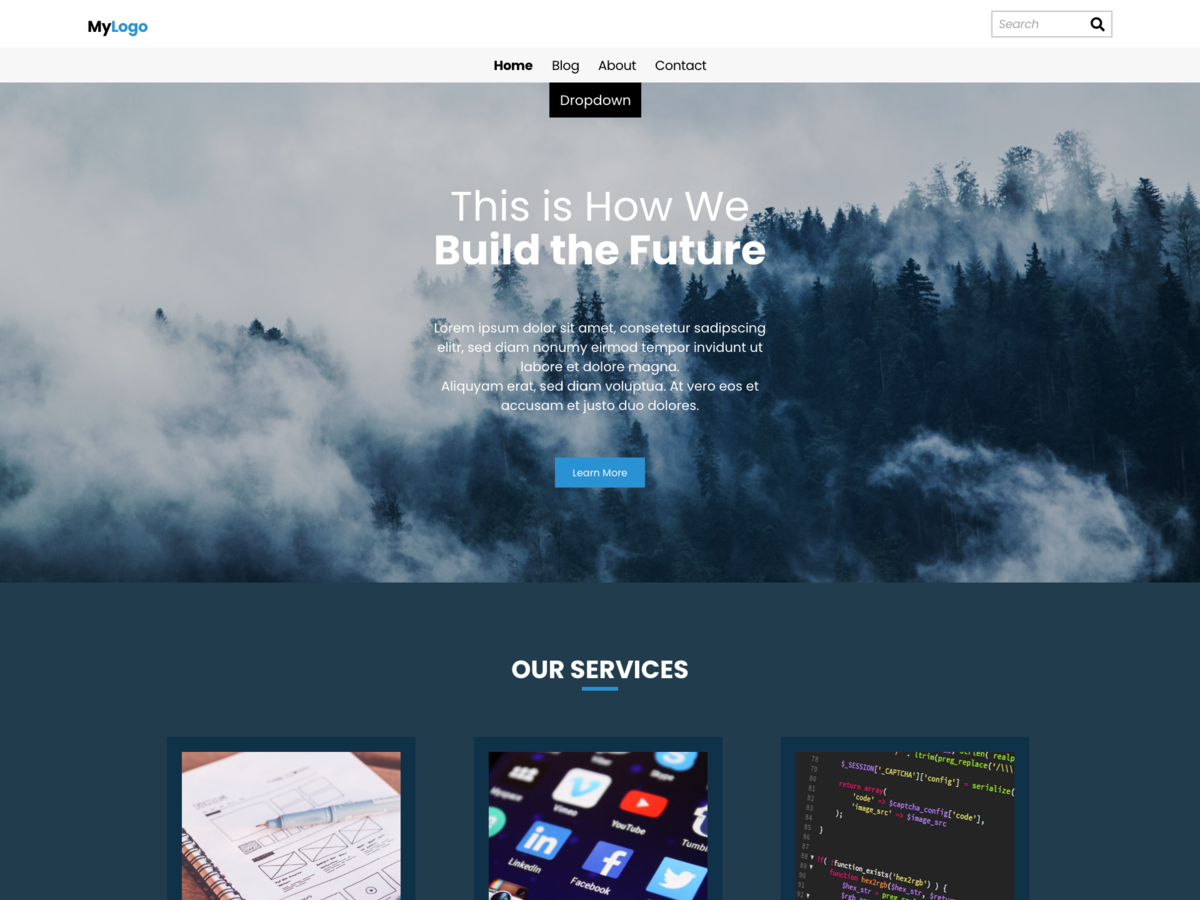
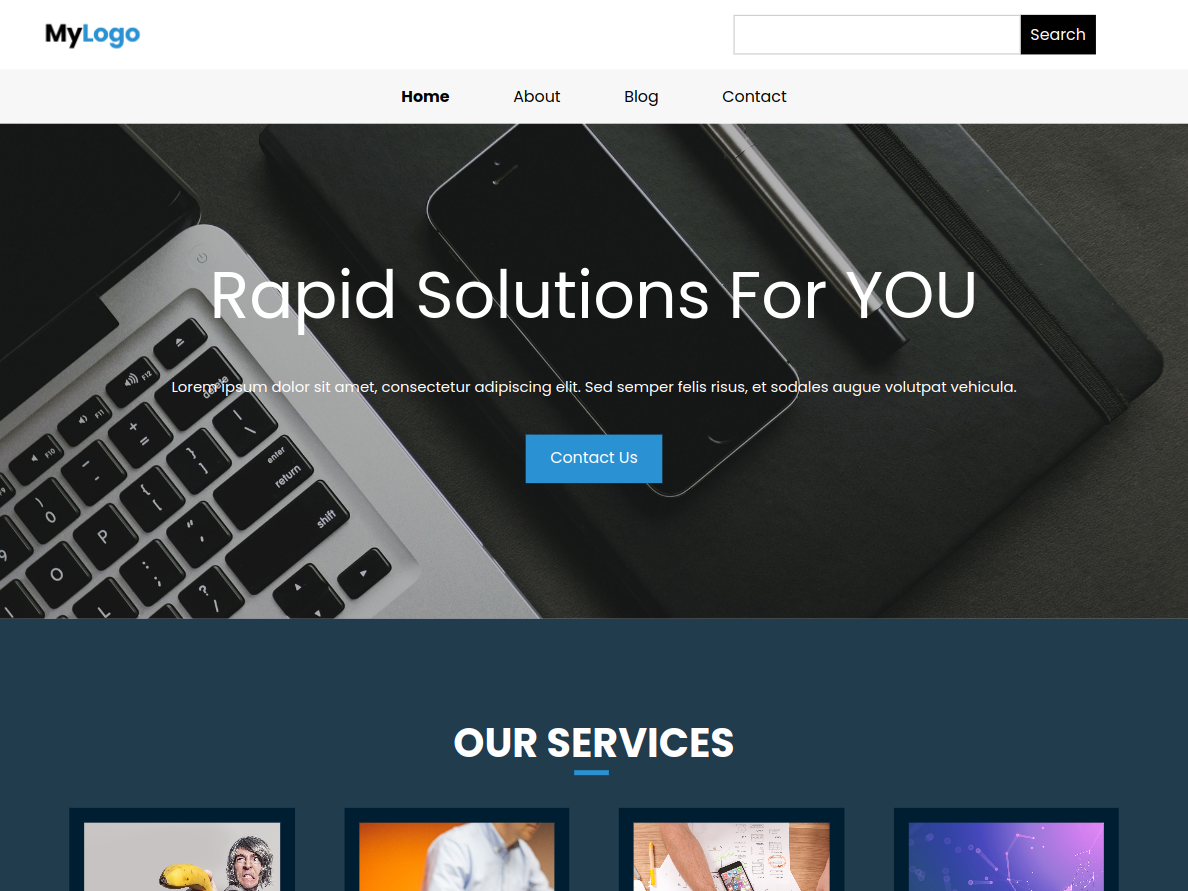
feat hero/footer customizer

diff --git a/inc/customizer.php b/inc/customizer.php
@@ -1,0 +1,166 @@
+<?php 
+
+function wpdevs_customizer( $wp_customize ){
+    $wp_customize->add_section(
+        'sec_copyright',
+        [
+            'title' => 'Copywrite Settings',
+            'description' => 'Copywrite Settings'
+        ]
+    );
+
+        $wp_customize->add_setting(
+            'set_copyright',
+            [
+                'type' => 'theme_mod',
+                'default' => 'Cool copyright footer text',
+                'sanitize_callback' => 'sanitize_text_field'
+            ]
+        );
+
+        $wp_customize->add_control(
+            'set_copyright',
+            [
+                'label' => 'Copyright information',
+                'description' => 'Please, type your copyright here',
+                'section' => 'sec_copyright',
+                'type' => 'text'
+            ]
+        );
+    
+    // Hero section
+
+    $wp_customize->add_section(
+        'sec_hero',
+        [
+            'title' => 'Hero Section',
+        ]
+    );
+        
+        // Hero title customizations
+
+        $wp_customize->add_setting(
+            'set_hero_title',
+            [
+                'type' => 'theme_mod',
+                'default' => 'Please add a title',
+                'sanitize_callback' => 'sanitize_text_field'
+            ]
+        );
+
+        $wp_customize->add_control(
+            'set_hero_title',
+            [
+                'label' => 'Hero title',
+                'description' => 'Type your title here',
+                'section' => 'sec_hero',
+                'type' => 'text'
+            ]
+        );
+
+        // Hero subtitle customizations
+
+        $wp_customize->add_setting(
+            'set_hero_subtitle',
+            [
+                'type' => 'theme_mod',
+                'default' => 'Add your custom subtitle',
+                'sanitize_callback' => 'sanitize_textarea_field'
+            ]
+        );
+
+        $wp_customize->add_control(
+            'set_hero_subtitle',
+            [
+                'label' => 'Hero subtitle',
+                'description' => 'Type your subtitle here',
+                'section' => 'sec_hero',
+                'type' => 'textarea'
+            ]
+        );
+
+        // Hero button text customizations
+
+        $wp_customize->add_setting(
+            'set_hero_button_text',
+            [
+                'type' => 'theme_mod',
+                'default' => 'Button text',
+                'sanitize_callback' => 'sanitize_text_field'
+            ]
+        );
+
+        $wp_customize->add_control(
+            'set_hero_button_text',
+            [
+                'label' => 'Hero button text',
+                'description' => 'Type your subtitle here',
+                'section' => 'sec_hero',
+                'type' => 'text'
+            ]
+        );
+
+        // Hero button link customizations
+
+        $wp_customize->add_setting(
+            'set_hero_button_link',
+            [
+                'type' => 'theme_mod',
+                'default' => 'Button link',
+                'sanitize_callback' => 'esc_url_raw'
+            ]
+        );
+
+        $wp_customize->add_control(
+            'set_hero_button_link',
+            [
+                'label' => 'Hero button link',
+                'description' => 'Type your hero button link here',
+                'section' => 'sec_hero',
+                'type' => 'text'
+            ]
+        );
+
+        // Hero height
+
+        $wp_customize->add_setting(
+            'set_hero_height',
+            [
+                'type' => 'theme_mod',
+                'default' => 800,
+                'sanitize_callback' => 'absint'
+            ]
+        );
+
+        $wp_customize->add_control(
+            'set_hero_height',
+            [
+                'label' => 'Hero button link',
+                'description' => 'Hero height',
+                'section' => 'sec_hero',
+                'type' => 'number'
+            ]
+        );
+
+        // Hero background image
+
+        $wp_customize->add_setting(
+            'set_hero_background',
+            [
+                'type' => 'theme_mod',
+                'sanitize_callback' => 'absint'
+            ]
+        );
+
+        $wp_customize->add_control( new WP_Customize_Media_Control( $wp_customize,
+            'set_hero_background',
+            [
+                'label' => 'Hero background image',
+                'section' => 'sec_hero',
+                'mime_image' => 'image'
+            ]
+        )
+        );
+}
+
+add_action('customize_register', 'wpdevs_customizer');

diff --git a/search.php b/search.php
@@ -10,24 +10,17 @@
             get_search_form();
 
             while (have_posts()):
-                the_post();?>
+                the_post(); ?>
                 <artticle id="post-<?php the_ID() ?>" <?php post_class() ?>>
                     <header>
                         <h2><a href="<?php the_permalink() ?>"><?php the_title() ?></a></h2>
                         <div class="meta-info">
-                            <?php 
-                            if (get_post_type() === "post") {
-                                ?> <p>Posted in <?php echo get_the_date() ?> by <?php the_author_posts_link() ?></p>
-                                <p>Categories: <?php the_category(', ') ?></p>
-                                <p>Tags: <?php 
-                                            if(!get_tags()) {
-                                                ?> <span>No Tags...</span> <?php
-                                            } else {
-                                               ?>  <span><?php the_tags('', ', ') ?></span> <?php
-                                            }
-                                        ?> </p> <?php
-                            }
-                            ?>
+                            <?php
+                            ?> <p>Posted in <?php echo get_the_date() ?> by <?php the_author_posts_link() ?></p>
+                            <p>Categories: <span <?php if (!has_category()) echo 'class="no-tags"' ?>><?php the_category(', ');
+                                                                                                        if (!has_category()) echo "No categories..." ?></span></p>
+                            <p>Tags: <span <?php if (!has_tag()) echo 'class="no-tags"' ?>><?php the_tags('', ', ');
+                                                                                            if (!has_tag()) echo "No tags..." ?></span></p>
                         </div>
                     </header>
                     <div>

diff --git a/parts/content-single.php b/parts/content-single.php
@@ -3,24 +3,8 @@
         <h1><?php the_title() ?></h1>
         <div class="meta-info">
             <p>Posted in <?php echo get_the_date() ?> by <?php the_author_posts_link() ?></p>
-            <p>
-                Categories: <?php
-                    if(!get_categories()) {
-                        ?> No Categories... <?php
-                    } else {
-                        ?>  <span><?php the_category(', ')  ?></span> <?php
-                    }
-                ?>
-            </p>
-            <p>
-                Tags: <?php
-                    if(!get_tags()) {
-                        ?> <span class="no-tags">No Tags...</span> <?php
-                    } else {
-                        ?>  <span><?php the_tags('', ', ') ?></span> <?php
-                    }
-                ?>
-            </p>
+            <p>Categories: <span <?php if(!has_category()) echo 'class="no-tags"' ?> ><?php the_category(', '); if(!has_category()) echo "No categories..." ?></span></p>
+            <p>Tags: <span <?php if(!has_tag()) echo 'class="no-tags"' ?> ><?php the_tags('', ', '); if(!has_tag()) echo "No tags..." ?></span></p>
         </div>
     </header>
     <div>

diff --git a/parts/content.php b/parts/content.php
@@ -7,22 +7,8 @@
     </a>
     <div class="meta-info">
         <p>Posted in <?php echo get_the_date() ?> by <?php the_author_posts_link() ?></p>
-        <P>
-            Categories: <?php
-                if (!get_categories()) {
-                    ?> No Categories... <?php
-                } else {
-                    ?> <span><?php the_category(', ')  ?></span> <?php
-                }?>
-        </P>
-        <P>
-            Tags: <?php
-                if (!get_tags()) {
-                    ?> <span class="no-tags">No Tags...</span> <?php
-                } else {
-                    ?> <span><?php the_tags('', ', ') ?></span> <?php
-                }?>
-        </P>
+        <p>Categories: <span <?php if(!has_category()) echo 'class="no-tags"' ?> ><?php the_category(', '); if(!has_category()) echo "No categories..." ?></span></p>
+        <p>Tags: <span <?php if(!has_tag()) echo 'class="no-tags"' ?> ><?php the_tags('', ', '); if(!has_tag()) echo "No tags..." ?></span></p>
     </div>
     <p><?php echo custom_get_excerpt(20) ?></p>
 </article>

diff --git a/parts/home/widget-hero.php b/parts/home/widget-hero.php
@@ -1,0 +1,23 @@
+<?php 
+
+    // Customizer fields
+    $hero_titile = get_theme_mod('set_hero_title', 'Your Hero Title');
+    $hero_subtitle = nl2br(get_theme_mod('set_hero_subtitle', 'Your hero subtitle. Very cool subtitle here may be.'));
+    $hero_button_link = get_theme_mod('set_hero_button_link', '#');
+    $hero_height = get_theme_mod('set_hero_height', 800);
+    $hero_background_image = wp_get_attachment_url(get_theme_mod('set_hero_background', '120'));
+    $hero_button_text = get_theme_mod('set_hero_button_text', 'button text');
+
+?>
+
+<section class="hero" style="background-image: url('<?php echo $hero_background_image ?>');">
+    <div class="overlay" style="min-height: <?php echo $hero_height ?>px;">
+        <div class="container">
+            <div class="hero-items">
+                <h1><?php echo $hero_titile ?></h1>
+                <p><?php echo $hero_subtitle ?></p>
+                <a href="<?php echo $hero_button_link ?>"><?php echo $hero_button_text ?></a>
+            </div>
+        </div>
+    </div>
+</section>

diff --git a/parts/content-home.php b/parts/content-home.php
@@ -6,20 +6,8 @@
     <div class="meta-info">
         <p>
             by <span><?php the_author_posts_link() ?></span>
-            Categories: <?php 
-                if(!get_categories()) {
-                    ?> No Categories... <?php
-                } else {
-                    ?>  <span><?php the_category(', ')  ?></span> <?php
-                }
-            ?> 
-            Tags: <?php 
-                if(!get_tags()) {
-                    ?> <span class="no-tags">No Tags...</span> <?php
-                } else {
-                    ?>  <span><?php the_tags('', ', ') ?></span> <?php
-                }
-            ?> 
+            Categories: <span <?php if(!has_category()) echo 'class="no-tags"' ?> ><?php the_category(', '); if(!has_category()) echo "No categories..." ?></span>
+            Tags: <span <?php if(!has_tag()) echo 'class="no-tags"' ?> ><?php the_tags('', ', '); if(!has_tag()) echo "No tags..." ?></span>
         </p>
         <p><span><?php echo get_the_date() ?></span></p>
     </div>

diff --git a/page-home.php b/page-home.php
@@ -2,9 +2,7 @@
 <div class="site-content" id="content">
     <div id="primary" class="content-area">
         <main id="main" class="site-main">
-            <section class="hero">
-
-            </section>
+            <?php get_template_part('parts/home/widget', 'hero') ?>
             <section class="services">
                 <h2>Our Services</h2>
                 <div class="container">
